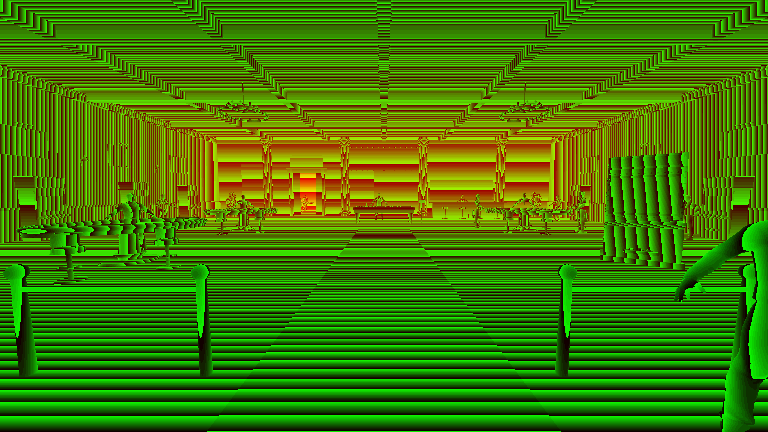
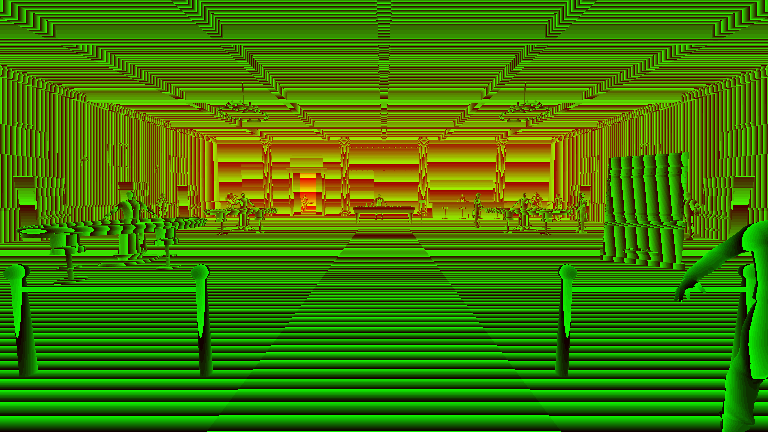
Casino: one original character for everyone, no salon table plaques, patrons' midriffs covered
- Everyone in the room is now the one original Adrian (ONE_CHARACTER = 'm1' in the
  host script; set it to null to bring the six people back). Only the livery or
  the clothes differ. This drops the female reshaping, hair-dos and the
  ponytail that read badly.
- The two salon tables lose their small brass name plaques, which sat half
  inside the table rim; the big signs overhead already name the tables.
- Players and patrons in their own clothes had a see-through band at the waist:
  the shirt ends above the trousers and the waistcoat that covers the gap was
  hidden. The waistcoat layer now stays and takes the shirt's colour, so they
  read as one plain shirt; buttons and badge stay hidden.
- casino-pvp updated (34 pass): one-character check, plain-shirt civilians,
  no stray salon plaques; entry still recaptured; README updated.

Claude-Session: https://claude.ai/code/session_01FBGEffZW5Fak3yZKoMYd27

diff --git a/xtrata-2.0/public/arcade-world-preview/casino-room.html b/xtrata-2.0/public/arcade-world-preview/casino-room.html
@@ -1808,6 +1808,8 @@ button{transition:background .15s,transform .08s}button:active:not(:disabled){tr
   // ---------------- the six people, and how each is dressed ----------------
   // material name -> colour: SET on the untextured cloth, a tint on textured skin and hair.
   const F_SHAPE = { shoulders: -0.016, hips: 0.008, breast: 1.5, neck: 0.95 };
+  // For now everyone in the room is the one original character (Adrian as modelled); only the livery or the clothes differ. Set to null to bring the six people back.
+  const ONE_CHARACTER = 'm1';
   const PEOPLE = {
     m1: { s: 0.945, shape: {}, look: {} },   // Adrian himself
     m2: { s: 0.975, shape: { shoulders: 0.008 }, look: { 'Warm natural skin': 0xbd8a60, 'Chestnut swept hair': 0x191310, 'Natural eyebrows': 0x191310 } },
@@ -1833,12 +1835,14 @@ button{transition:background .15s,transform .08s}button:active:not(:disabled){tr
     });
   }
   function dressCivilian(model, wear) {
-    // own clothes: no waistcoat, no buttons, no badge, no bridge panels; the shirt and trousers take their colours
+    // own clothes: no buttons and no badge. The waistcoat layer stays but takes the shirt's colour, so it reads as one plain shirt and covers the midriff
+    // (the shirt itself ends above the trousers: hiding the waistcoat left a see-through band at the waist)
     model.traverse((o) => {
       if (!o.isMesh) return;
-      if ((o.material && o.material.name === 'Midnight waistcoat') || /^Waistcoat_button|^Xtrata_uniform/.test(o.name)) o.visible = false;
+      if (/^Waistcoat_button|^Xtrata_uniform/.test(o.name)) o.visible = false;
     });
-    applyLook(model, { 'Ivory cotton': wear.shirt || 0xd8d2c2, 'Midnight wool': wear.trousers || 0x23262c });
+    const shirt = wear.shirt || 0xd8d2c2;
+    applyLook(model, { 'Ivory cotton': shirt, 'Midnight waistcoat': shirt, 'Satin piping': shirt, 'Midnight wool': wear.trousers || 0x23262c });
   }
   function addHairDo(ctrl, kind, color) {
     if (!kind) return;
@@ -1881,7 +1885,7 @@ button{transition:background .15s,transform .08s}button:active:not(:disabled){tr
     else if (kind === 'shrug') c.playAnimation('Gesture');
   }
   function build(h) {
-    const person = PEOPLE[h.person] || PEOPLE.m1;
+    const person = PEOPLE[ONE_CHARACTER || h.person] || PEOPLE.m1;
     const c = new HostController(asset, person);
     c.object.position.set(h.x, 0, h.z); c.object.rotation.y = h.yaw || 0;
     c.object.userData.xaHost = true;
@@ -1904,6 +1908,7 @@ button{transition:background .15s,transform .08s}button:active:not(:disabled){tr
   window.XA_HOSTS = {
     hosts,
     get ready() { return !!asset; },
+    oneCharacter: ONE_CHARACTER,
     failed: false,
     add(spec) { hosts.push(spec); if (asset) build(spec); return spec; },
     cue(group, kind) { const h = hosts.find((x) => x.group === group && !x.wear); if (h && h.ctrl) gesture(h, kind, lastT); },
@@ -3976,14 +3981,12 @@ button{transition:background .15s,transform .08s}button:active:not(:disabled){tr
     },
     pvpholdem(s) {
       const g = s.group;
-      plaque(g, -1.5, 0.93, 0.6, 0.3, 0.1, ["HOLD'EM", 'NO LIMIT · BLINDS $5 / $10'], 0.3, 0.5);
       chipColumns(g, -0.35, 0.866, -0.62, [100, 25], [3, 5], 0.12);
       [[-1.15, 1.05], [-0.4, 1.42], [0.4, 1.42], [1.15, 1.05]].forEach(([x, z]) => makeStool(g, x, z, Math.atan2(x, z) + Math.PI, { h: 0.57 }));
     },
     liars(s) {
       const g = s.group; const tray = new THREE.Group(); tray.position.set(0.95, 0.866, -0.5); g.add(tray);
       box(0.3, 0.02, 0.2, M(0x0c0c10, { roughness: 0.35, metalness: 0.4 }), 0, 0.01, 0, tray); box(0.31, 0.006, 0.21, GOLDM(), 0, 0.001, 0, tray); chipColumns(tray, -0.09, 0.02, 0, [5, 25, 100], [6, 8, 4], 0.09);
-      plaque(g, -1.35, 0.93, 0.55, 0.26, 0.1, ["LIAR'S DICE", 'PLAYER VS PLAYER'], 0.3, 0.5);
       [[-1.0, 0.95], [-0.35, 1.28], [0.35, 1.28], [1.0, 0.95]].forEach(([x, z]) => makeStool(g, x, z, Math.atan2(x, z) + Math.PI, { h: 0.57 }));
     },
     baccarat(s) {

diff --git a/xtrata-2.0/recursive-apps/xtrata-arcade/build/rooms/casino-room.html b/xtrata-2.0/recursive-apps/xtrata-arcade/build/rooms/casino-room.html
@@ -1808,6 +1808,8 @@ button{transition:background .15s,transform .08s}button:active:not(:disabled){tr
   // ---------------- the six people, and how each is dressed ----------------
   // material name -> colour: SET on the untextured cloth, a tint on textured skin and hair.
   const F_SHAPE = { shoulders: -0.016, hips: 0.008, breast: 1.5, neck: 0.95 };
+  // For now everyone in the room is the one original character (Adrian as modelled); only the livery or the clothes differ. Set to null to bring the six people back.
+  const ONE_CHARACTER = 'm1';
   const PEOPLE = {
     m1: { s: 0.945, shape: {}, look: {} },   // Adrian himself
     m2: { s: 0.975, shape: { shoulders: 0.008 }, look: { 'Warm natural skin': 0xbd8a60, 'Chestnut swept hair': 0x191310, 'Natural eyebrows': 0x191310 } },
@@ -1833,12 +1835,14 @@ button{transition:background .15s,transform .08s}button:active:not(:disabled){tr
     });
   }
   function dressCivilian(model, wear) {
-    // own clothes: no waistcoat, no buttons, no badge, no bridge panels; the shirt and trousers take their colours
+    // own clothes: no buttons and no badge. The waistcoat layer stays but takes the shirt's colour, so it reads as one plain shirt and covers the midriff
+    // (the shirt itself ends above the trousers: hiding the waistcoat left a see-through band at the waist)
     model.traverse((o) => {
       if (!o.isMesh) return;
-      if ((o.material && o.material.name === 'Midnight waistcoat') || /^Waistcoat_button|^Xtrata_uniform/.test(o.name)) o.visible = false;
+      if (/^Waistcoat_button|^Xtrata_uniform/.test(o.name)) o.visible = false;
     });
-    applyLook(model, { 'Ivory cotton': wear.shirt || 0xd8d2c2, 'Midnight wool': wear.trousers || 0x23262c });
+    const shirt = wear.shirt || 0xd8d2c2;
+    applyLook(model, { 'Ivory cotton': shirt, 'Midnight waistcoat': shirt, 'Satin piping': shirt, 'Midnight wool': wear.trousers || 0x23262c });
   }
   function addHairDo(ctrl, kind, color) {
     if (!kind) return;
@@ -1881,7 +1885,7 @@ button{transition:background .15s,transform .08s}button:active:not(:disabled){tr
     else if (kind === 'shrug') c.playAnimation('Gesture');
   }
   function build(h) {
-    const person = PEOPLE[h.person] || PEOPLE.m1;
+    const person = PEOPLE[ONE_CHARACTER || h.person] || PEOPLE.m1;
     const c = new HostController(asset, person);
     c.object.position.set(h.x, 0, h.z); c.object.rotation.y = h.yaw || 0;
     c.object.userData.xaHost = true;
@@ -1904,6 +1908,7 @@ button{transition:background .15s,transform .08s}button:active:not(:disabled){tr
   window.XA_HOSTS = {
     hosts,
     get ready() { return !!asset; },
+    oneCharacter: ONE_CHARACTER,
     failed: false,
     add(spec) { hosts.push(spec); if (asset) build(spec); return spec; },
     cue(group, kind) { const h = hosts.find((x) => x.group === group && !x.wear); if (h && h.ctrl) gesture(h, kind, lastT); },
@@ -3976,14 +3981,12 @@ button{transition:background .15s,transform .08s}button:active:not(:disabled){tr
     },
     pvpholdem(s) {
       const g = s.group;
-      plaque(g, -1.5, 0.93, 0.6, 0.3, 0.1, ["HOLD'EM", 'NO LIMIT · BLINDS $5 / $10'], 0.3, 0.5);
       chipColumns(g, -0.35, 0.866, -0.62, [100, 25], [3, 5], 0.12);
       [[-1.15, 1.05], [-0.4, 1.42], [0.4, 1.42], [1.15, 1.05]].forEach(([x, z]) => makeStool(g, x, z, Math.atan2(x, z) + Math.PI, { h: 0.57 }));
     },
     liars(s) {
       const g = s.group; const tray = new THREE.Group(); tray.position.set(0.95, 0.866, -0.5); g.add(tray);
       box(0.3, 0.02, 0.2, M(0x0c0c10, { roughness: 0.35, metalness: 0.4 }), 0, 0.01, 0, tray); box(0.31, 0.006, 0.21, GOLDM(), 0, 0.001, 0, tray); chipColumns(tray, -0.09, 0.02, 0, [5, 25, 100], [6, 8, 4], 0.09);
-      plaque(g, -1.35, 0.93, 0.55, 0.26, 0.1, ["LIAR'S DICE", 'PLAYER VS PLAYER'], 0.3, 0.5);
       [[-1.0, 0.95], [-0.35, 1.28], [0.35, 1.28], [1.0, 0.95]].forEach(([x, z]) => makeStool(g, x, z, Math.atan2(x, z) + Math.PI, { h: 0.57 }));
     },
     baccarat(s) {

diff --git a/xtrata-2.0/recursive-apps/xtrata-arcade/README.md b/xtrata-2.0/recursive-apps/xtrata-arcade/README.md
@@ -153,7 +153,7 @@ In the preview the lobby's first door is CASINO (gold sign, skinned door, `link:
 
 **Walking into a room: the entry still, with depth.** A room in `window.XA_ROOMS` may carry `still: 'casino-entry.jpg'` and `depth: 'casino-entry-depth.png'`: a colour picture and a depth map of the first view you get inside it. `build/snap-room.cjs` takes both from the room's own page opened with `?from=arcade` (colour at 80° vfov, 2304x1296; depth 768x432, 12 bits packed in R and G over 0..32 m; glow, dust, sprites and instanced bits are left out of the depth pass). Re-run it, then `node build/preview.mjs`, whenever the room's entry view changes. The numbers in `snap-room.cjs` must equal `ROOM` in `doors.js` (test G checks). The hall uses the pair three ways. **In the doorway:** an open door shows a window (`doors.js windowTo`, driven from `bays.js update`): for every pixel of the opening a ray from your eye is marched (96 steps and a binary refine) through the depth map, so you get real parallax, and from the doorway it is exactly the room's own first view (eye 1.6 m, pitch -0.08, fov 68, the casino's `startAtDoor`). Rays that leave the picture continue over a carpet extension taken from its bottom row, the picture's edge fades softly, and a warm light spill lies on the hall floor in front of an open door. It is drawn raw (no tone mapping) because it is already a finished screen shot. **At the threshold, the glide** (`walkIn`): a second small WebGL canvas draws the same ray march while the camera glides from where you stand to the room's entry pose (`ROOM.glide` 1500 ms), and the live room, already loaded behind it, takes over when it posts `{xa:'room-ready'}` (the casino does after three frames; a room that never does is shown 2.5 s after it loads). **Fallbacks:** no depth map gives the flat CSS still that moves in a little; only a slow room (3.5 s) gets the loading screen. The hall's own buttons are hidden while you are in a room. Known limits: a heightfield smears thin things (rope stanchions) and very oblique angles show a flat carpet smear; the real-GPU cost of the 96-step march has not been measured. Ops: `--rooms "casino=casino-room.html|ROYAL FLUSH CASINO|casino-entry.jpg|casino-entry-depth.png"`. Tests: `tests/hall-room-still.test.cjs`.
 
-**The Strata Salon and Adrian, the house's host (PvP tables in the room).** Behind the casino's back wall, through a lit arch beside the bar (centre x -6), is THE STRATA SALON: an ink-and-emerald private room holding two player-versus-player tables built into the floor itself — heads-up no-limit Hold'em (station id `pvpholdem`, buy-ins $100/$200/$500, blinds $5/$10) and Liar's Dice (`liars`, stakes $10-$100). They are the casino-pvp handoff's stations brought in beside the classic five (stations 6 and 7, keys 6 and 7): each runs `PvpCore`'s exact JS twin of the testnet contract (`casino-holdem-v1` / `casino-liars-dice-v1`) against a practice opponent on a simulated chain (3 s blocks), with the 2% rake, committed seeds and timeout claims of the real rules; `PVP_CHAIN` is the single chain object to swap for wallet-backed calls later. The three inlined models (`DiceModel`, `HoldemModel`, `PvpCore`) load before the room script. Panel rule kept from that build: a ticking value (the turn clock) lives in `<b class="pvpclk">` filled by `update()`, never in the `game` HTML string, so the strip does not rebuild under a click — `tests/casino-pvp.test.cjs` locks this. **The Adrian family** staffs and fills the whole room - the woodcut figures are retired (they return only as a fallback when the model cannot load). From one 1.8 m GLB (`build/rooms/adrian.glb`, 5.4 MB, 163 bones, 15 baked clips, from the Xtrata character atelier) fetched beside the page, parsed by a small inline GLB reader, the inline parser and rig grow SIX PEOPLE - three men and three women (skeleton reshape: height, shoulders, hips, bust, neck, re-applied after every mixer step because the clips key bone positions; buns and a ponytail for the women; skin/hair/brow tints) - and cast them over sixteen roles: five dealers in house liveries (emerald, burgundy, plum, ink, teal), a greeter and a bartender (hands clasped behind their backs), and nine players and patrons in their own clothes (waistcoat, buttons and badge hidden; shirt and trousers tinted), five of them genuinely seated (one-shot hip-drop and leg IK re-applied each frame). Idle hands rest where they should: palms on the table rail for dealers, on the knees when seated - blended out during gestures and back in afterwards. He blinks, follows you with his eyes within 4 m, smiles when he greets, and plays dealing/present/celebrate clips on the stations' cues (`XA_HOSTS.cue`); far hosts animate at a lower rate. If `adrian.glb` cannot be fetched (bare file:// open, missing asset) the original low-poly dealers stay — nothing breaks. The `⛓ Strata Club` button still opens the overlay pages (practice + "Watch a testnet game"); the intro's second row now walks you to the salon tables instead.
+**The Strata Salon and Adrian, the house's host (PvP tables in the room).** Behind the casino's back wall, through a lit arch beside the bar (centre x -6), is THE STRATA SALON: an ink-and-emerald private room holding two player-versus-player tables built into the floor itself — heads-up no-limit Hold'em (station id `pvpholdem`, buy-ins $100/$200/$500, blinds $5/$10) and Liar's Dice (`liars`, stakes $10-$100). They are the casino-pvp handoff's stations brought in beside the classic five (stations 6 and 7, keys 6 and 7): each runs `PvpCore`'s exact JS twin of the testnet contract (`casino-holdem-v1` / `casino-liars-dice-v1`) against a practice opponent on a simulated chain (3 s blocks), with the 2% rake, committed seeds and timeout claims of the real rules; `PVP_CHAIN` is the single chain object to swap for wallet-backed calls later. The three inlined models (`DiceModel`, `HoldemModel`, `PvpCore`) load before the room script. Panel rule kept from that build: a ticking value (the turn clock) lives in `<b class="pvpclk">` filled by `update()`, never in the `game` HTML string, so the strip does not rebuild under a click — `tests/casino-pvp.test.cjs` locks this. **The Adrian family** staffs and fills the whole room - the woodcut figures are retired (they return only as a fallback when the model cannot load). From one 1.8 m GLB (`build/rooms/adrian.glb`, 5.4 MB, 163 bones, 15 baked clips, from the Xtrata character atelier) fetched beside the page, parsed by a small inline GLB reader, the inline parser and rig can grow SIX PEOPLE - three men and three women (skeleton reshape: height, shoulders, hips, bust, neck, re-applied after every mixer step because the clips key bone positions; buns and a ponytail for the women; skin/hair/brow tints) - but FOR NOW everyone is the one original character (`ONE_CHARACTER = 'm1'` in the host script; set it to `null` to bring the six back) and only the livery or clothes differ, over sixteen roles: five dealers in house liveries (emerald, burgundy, plum, ink, teal), a greeter and a bartender (hands clasped behind their backs), and nine players and patrons in their own clothes (buttons and badge hidden; the waistcoat layer takes the shirt's colour so the midriff is covered; shirt and trousers tinted). The waistcoat borrows the shirt's skin weights so the shirt never shows through it, and the dealers stand behind their table's rim with their hands resting on it, five of them genuinely seated (one-shot hip-drop and leg IK re-applied each frame). Idle hands rest where they should: palms on the table rail for dealers, on the knees when seated - blended out during gestures and back in afterwards. He blinks, follows you with his eyes within 4 m, smiles when he greets, and plays dealing/present/celebrate clips on the stations' cues (`XA_HOSTS.cue`); far hosts animate at a lower rate. If `adrian.glb` cannot be fetched (bare file:// open, missing asset) the original low-poly dealers stay — nothing breaks. The `⛓ Strata Club` button still opens the overlay pages (practice + "Watch a testnet game"); the intro's second row now walks you to the salon tables instead.
 
 **The Strata Club tables (testnet rules).** The casino room has a `⛓ Strata Club` button (top bar) and two intro buttons that open the player-versus-player tables over the floor in a full-screen frame: `strata-holdem.html` and `strata-liars-dice.html`, with `strata-club.css` and the two rule models `strata-dice-model.js` / `strata-holdem-model.js` (all in `build/rooms/`, copied beside the preview with the room). The models are the JS twins of the testnet contracts `casino-liars-dice-v1` and `casino-holdem-v1` (same rules, error codes and order of checks), so the practice table (simulated chain, bot opponent) plays exactly what the contract would. Each page's "Watch a testnet game" tab reads the real contract's events from `api.testnet.hiro.so` and replays a game. `XA_STRATA.open('sc-th' | 'sc-td')` / `.close()` drive the overlay; Escape or "Back to the floor" closes it. **Not wired yet:** signing real chip moves from these pages (the table pages have no wallet code; the testnet games so far were played by the casino wizards through offline signing). Do that through the wallet playbook, not ad hoc. Test: `tests/strata-club.test.cjs` (no browser).
 
